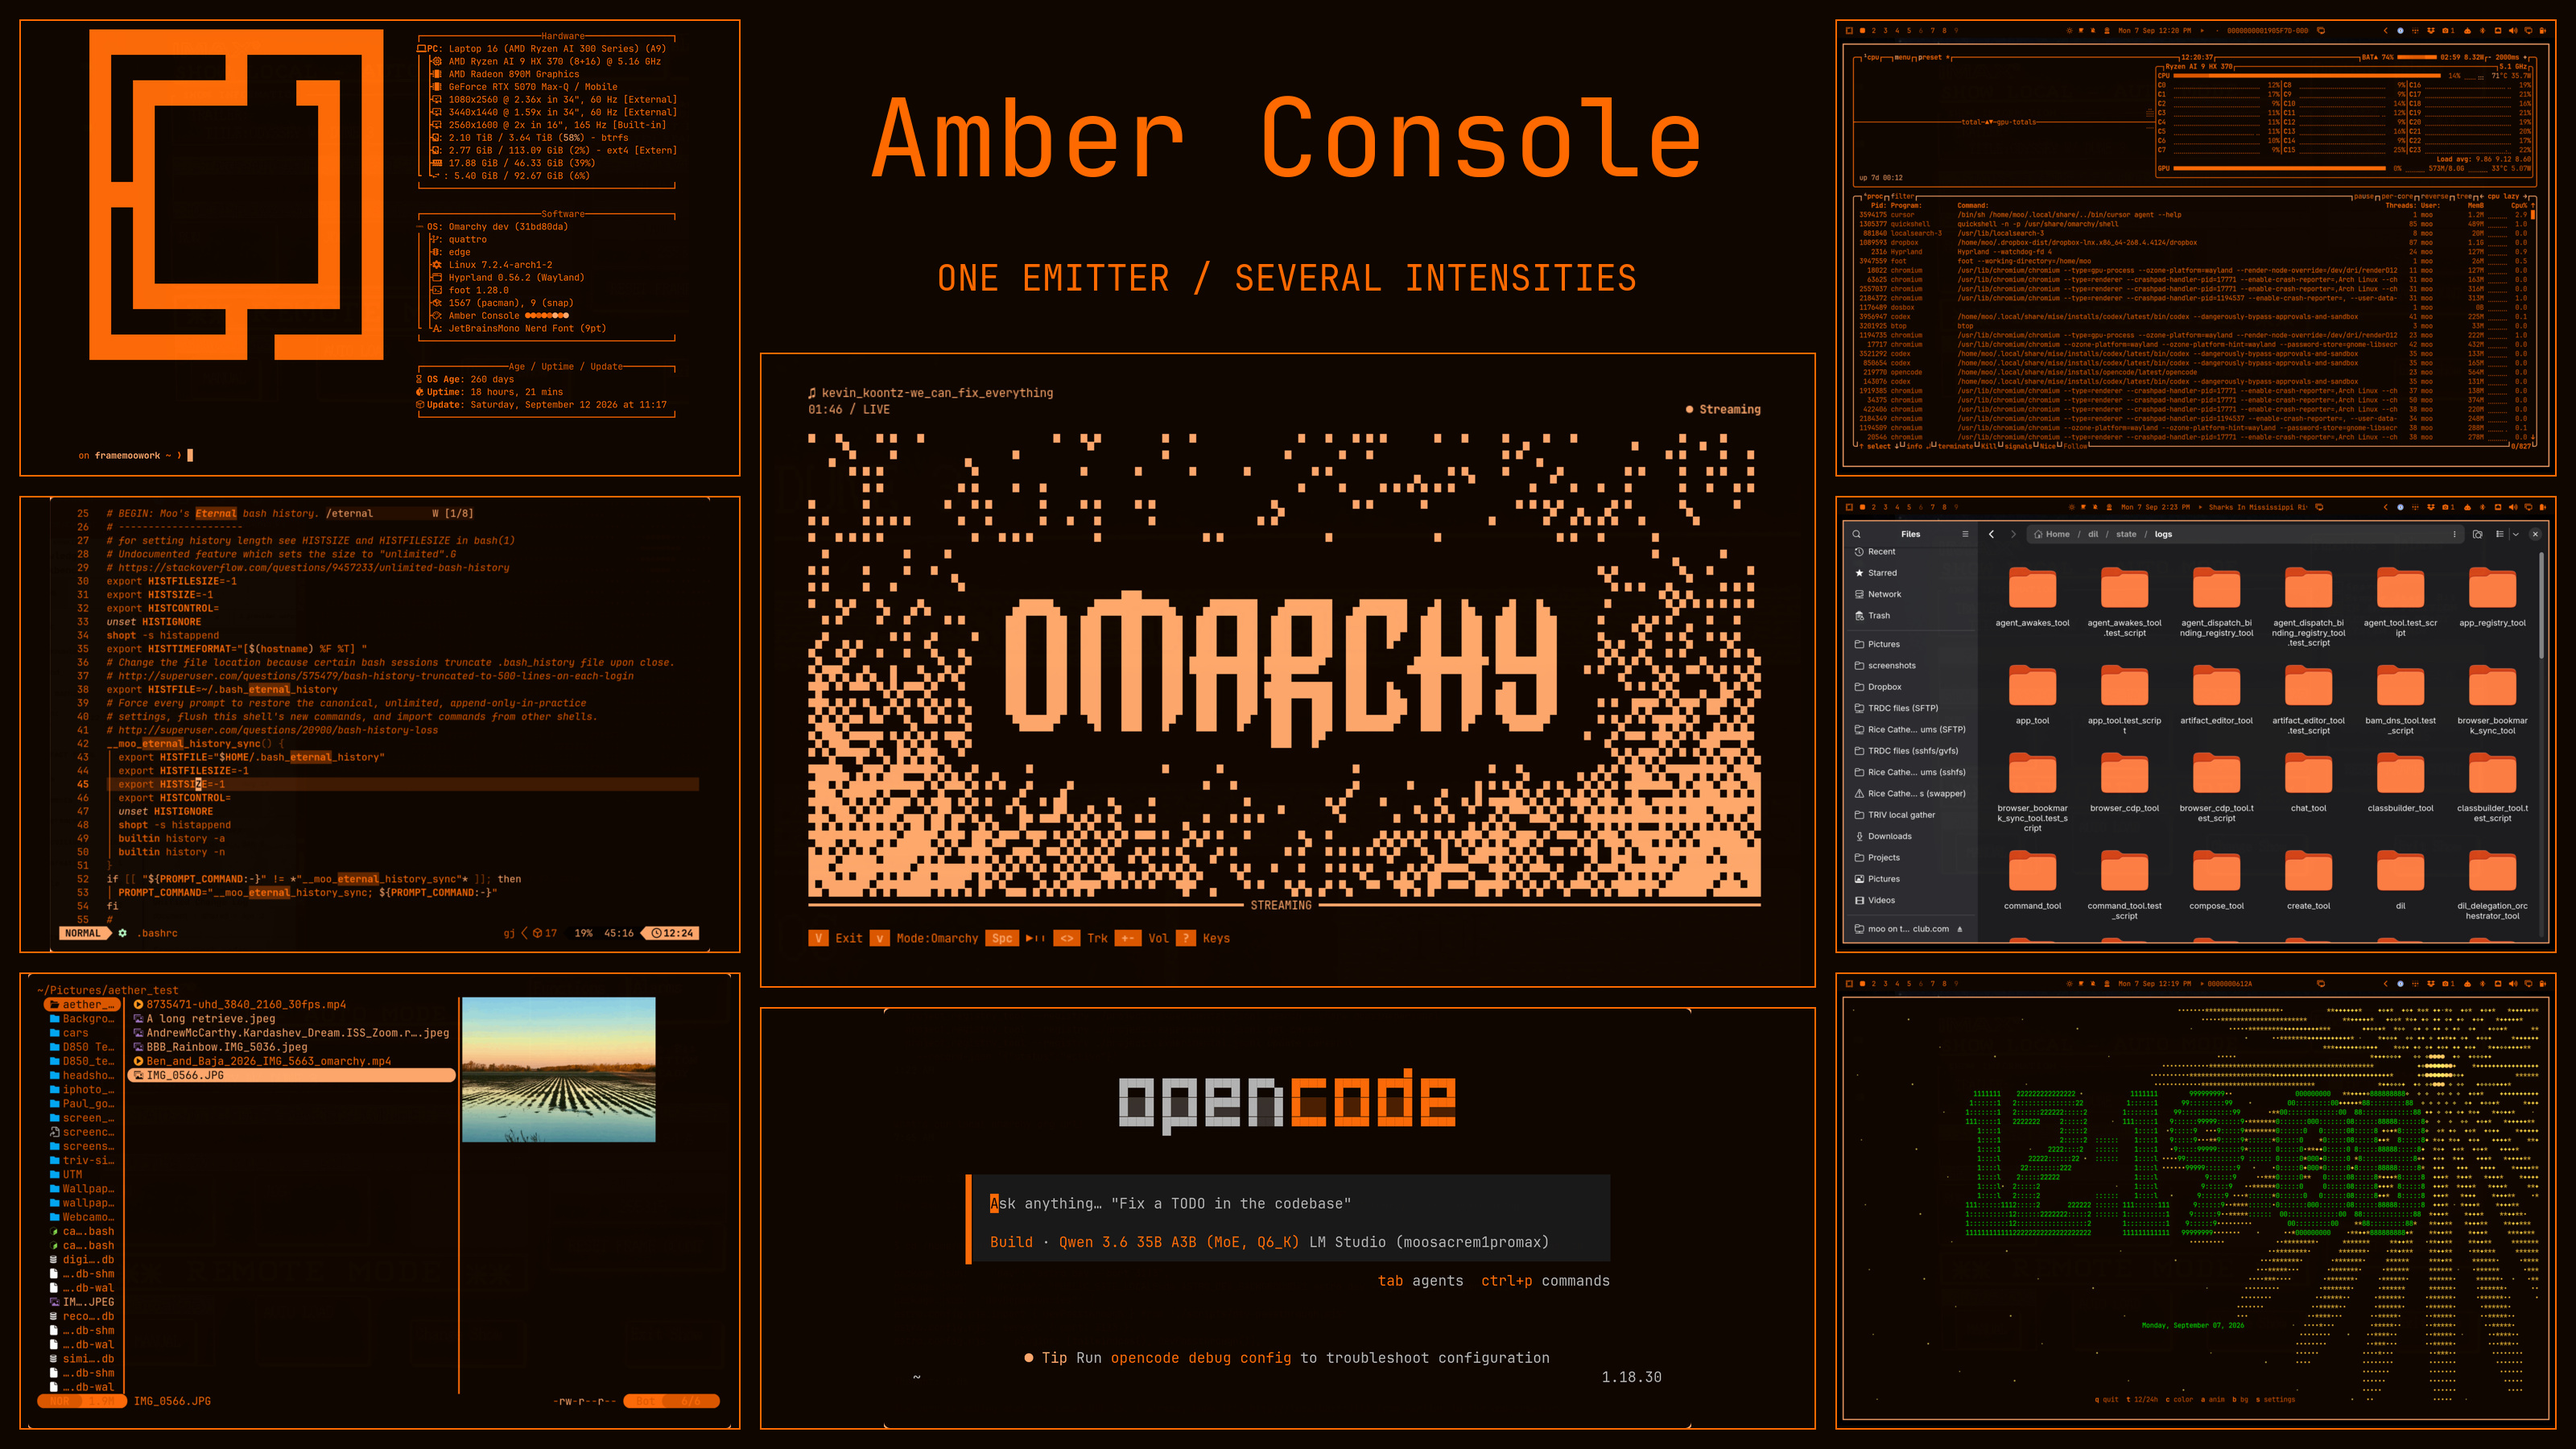
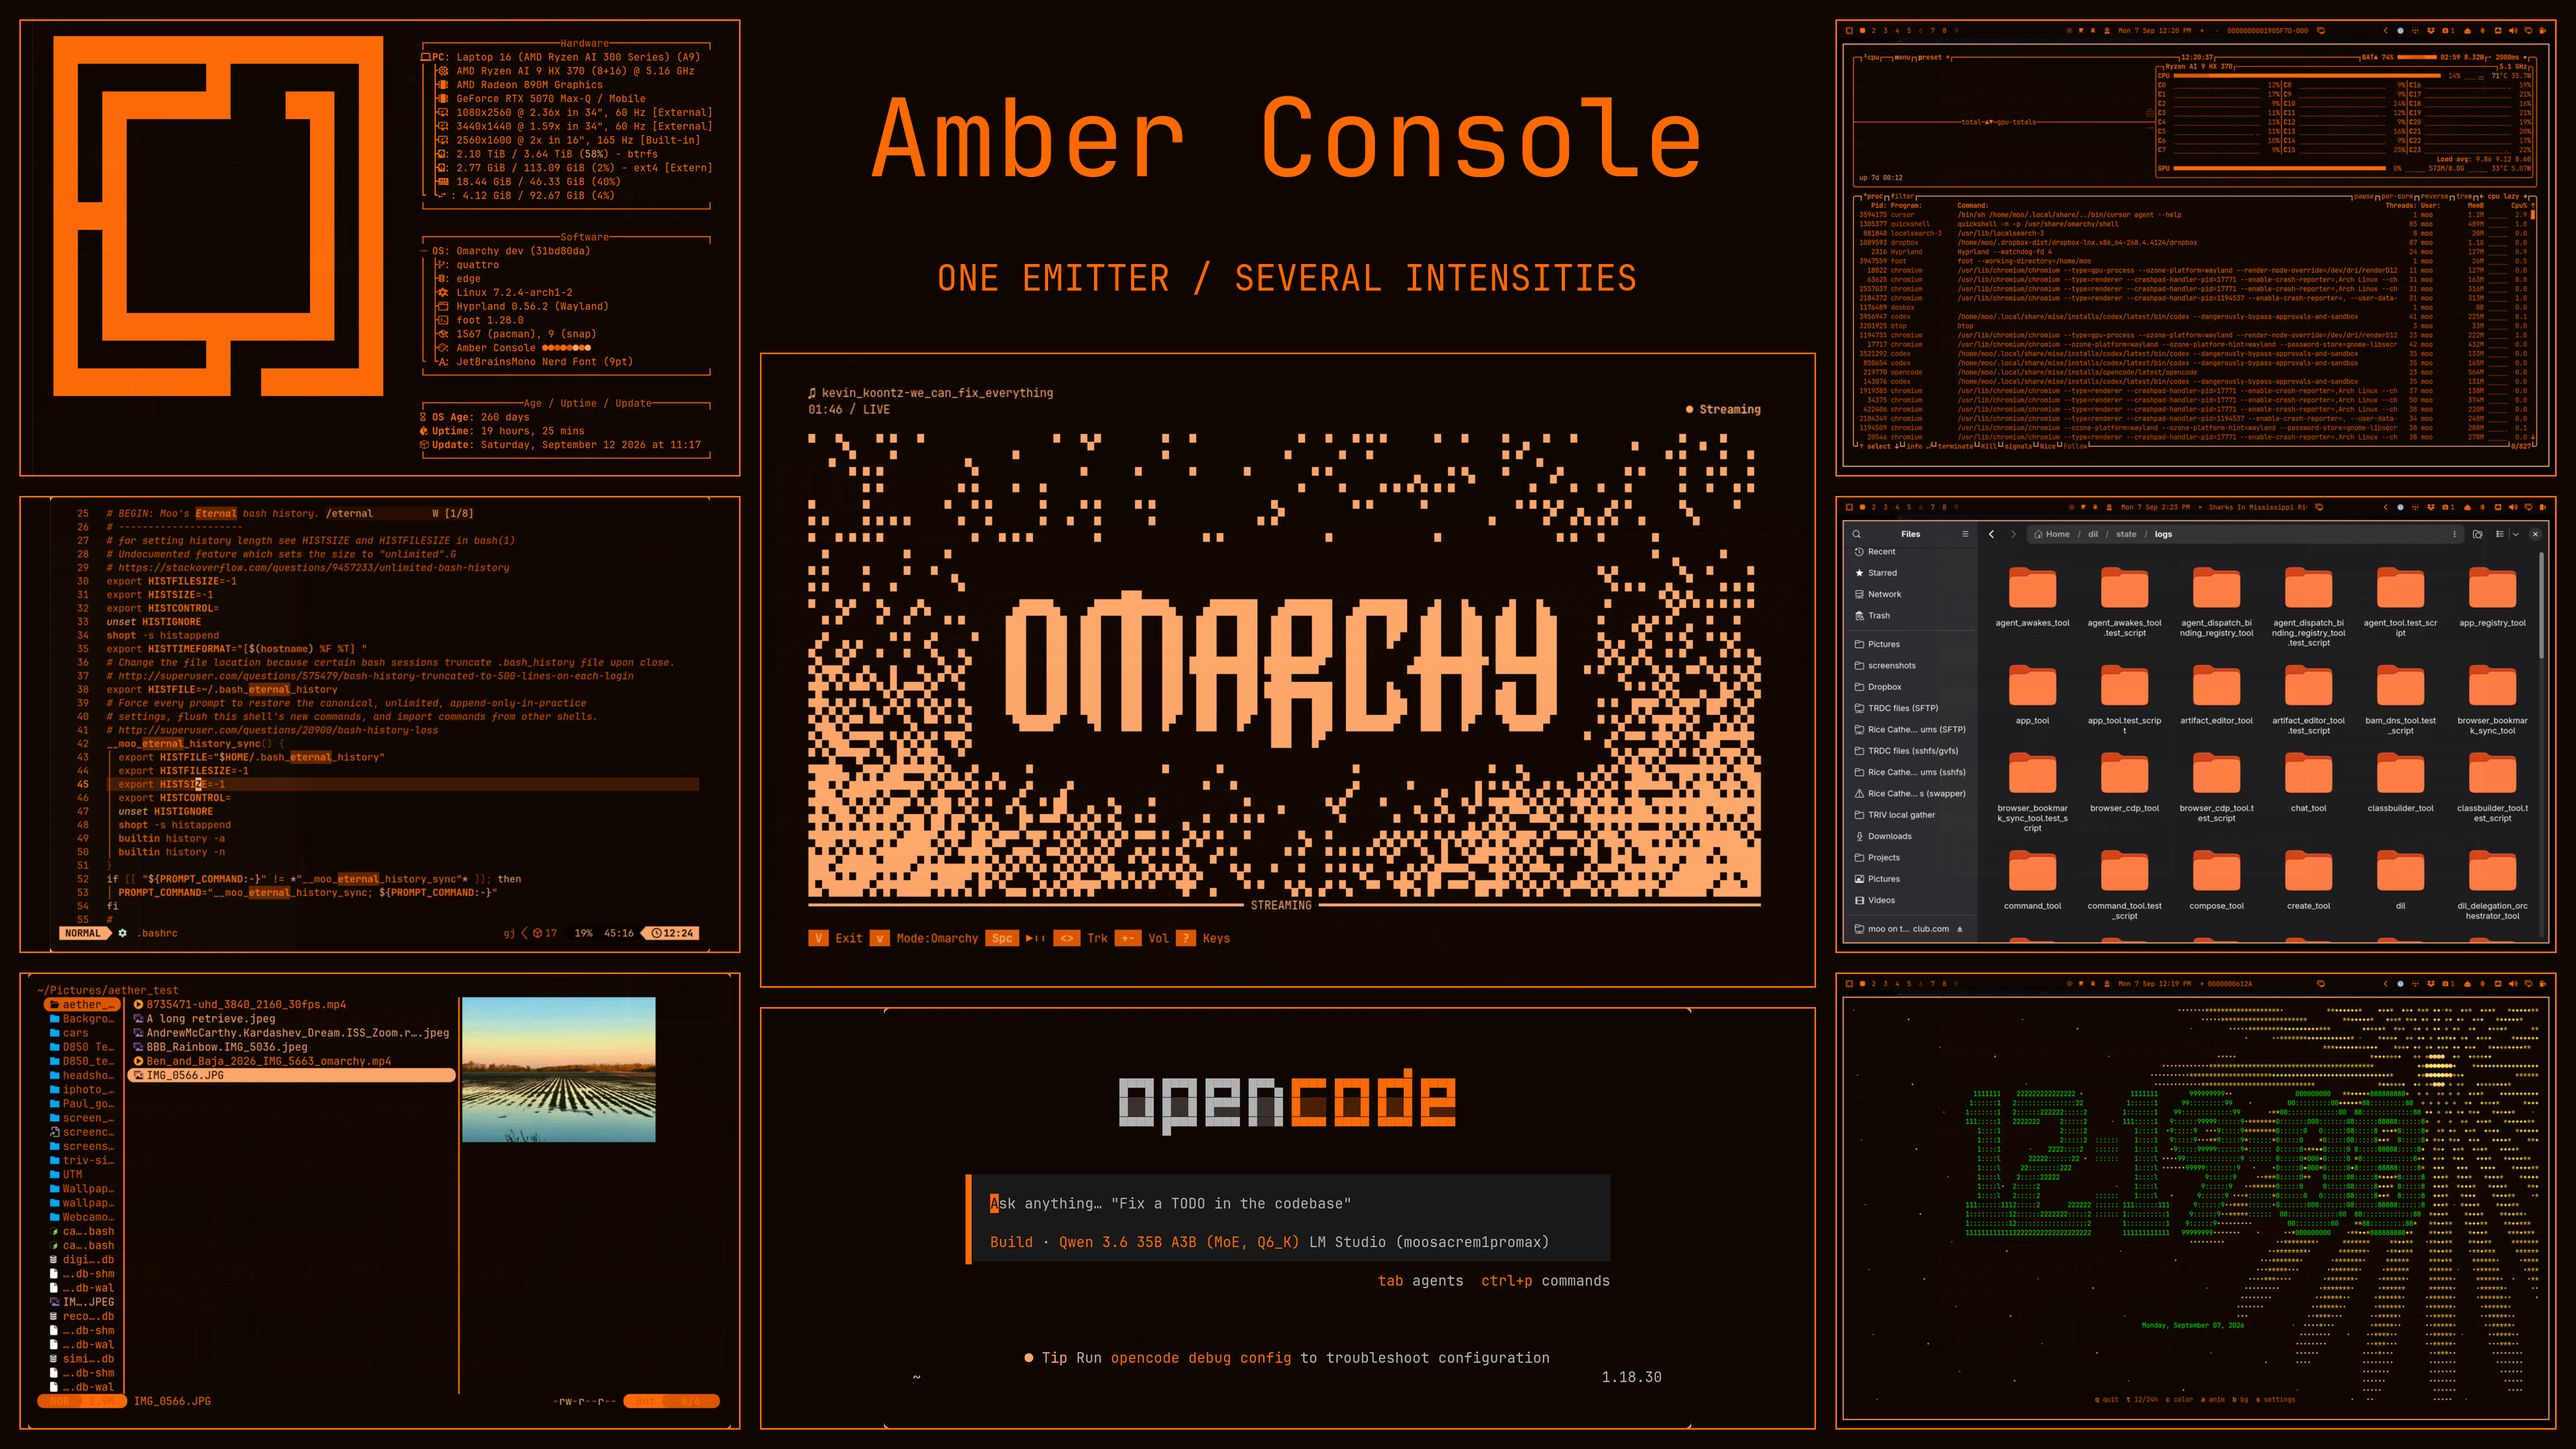
DIL-2723: Refresh sector 10 with evenly padded screenshot
Use screenshot-2026-09-13_10-19-52.png for sector 10, preserving its built-in padding with contain fit. Update the source asset, recipe, guide, render record, and preview.jpg on the tooling branch. Preserve the README cleanup already merged from master.

Render from theme root: theme_composite_tool render preview_comp_assets/showcase_03.json --bottom-center preview_comp_assets/screenshots/screenshot-2026-09-13_08-48-32.png --no-footer --output preview.jpg --replace --json

Theme author: @zigmoo. AmberConsole HTML/CSS framework creator: @dutchdiederik.

composition_ref: _shared/compositions/drafts/20260913_102410_735891_theme-repository_text.md

Changed region(s): [[0.0, 0.0, 0.2812, 0.3111]]

diff --git a/preview_comp_assets/SHOWCASE.md b/preview_comp_assets/SHOWCASE.md
@@ -14,7 +14,8 @@ theme_composite_tool render preview_comp_assets/showcase_03.json --bottom-center
 ```
 
 This puts Cliamp in the center, OpenCode in the expanded lower-center sector,
-and `screenshot-2026-09-13_09-12-55.png` in top-left sector 10. The footer is
+and `screenshot-2026-09-13_10-19-52.png` in top-left sector 10, preserving
+the screenshot's built-in outer padding without cropping. The footer is
 hidden. The saved recipe already contains slot 6 and `hide_footer: true`;
 the explicit flags document the intended layout.
 
